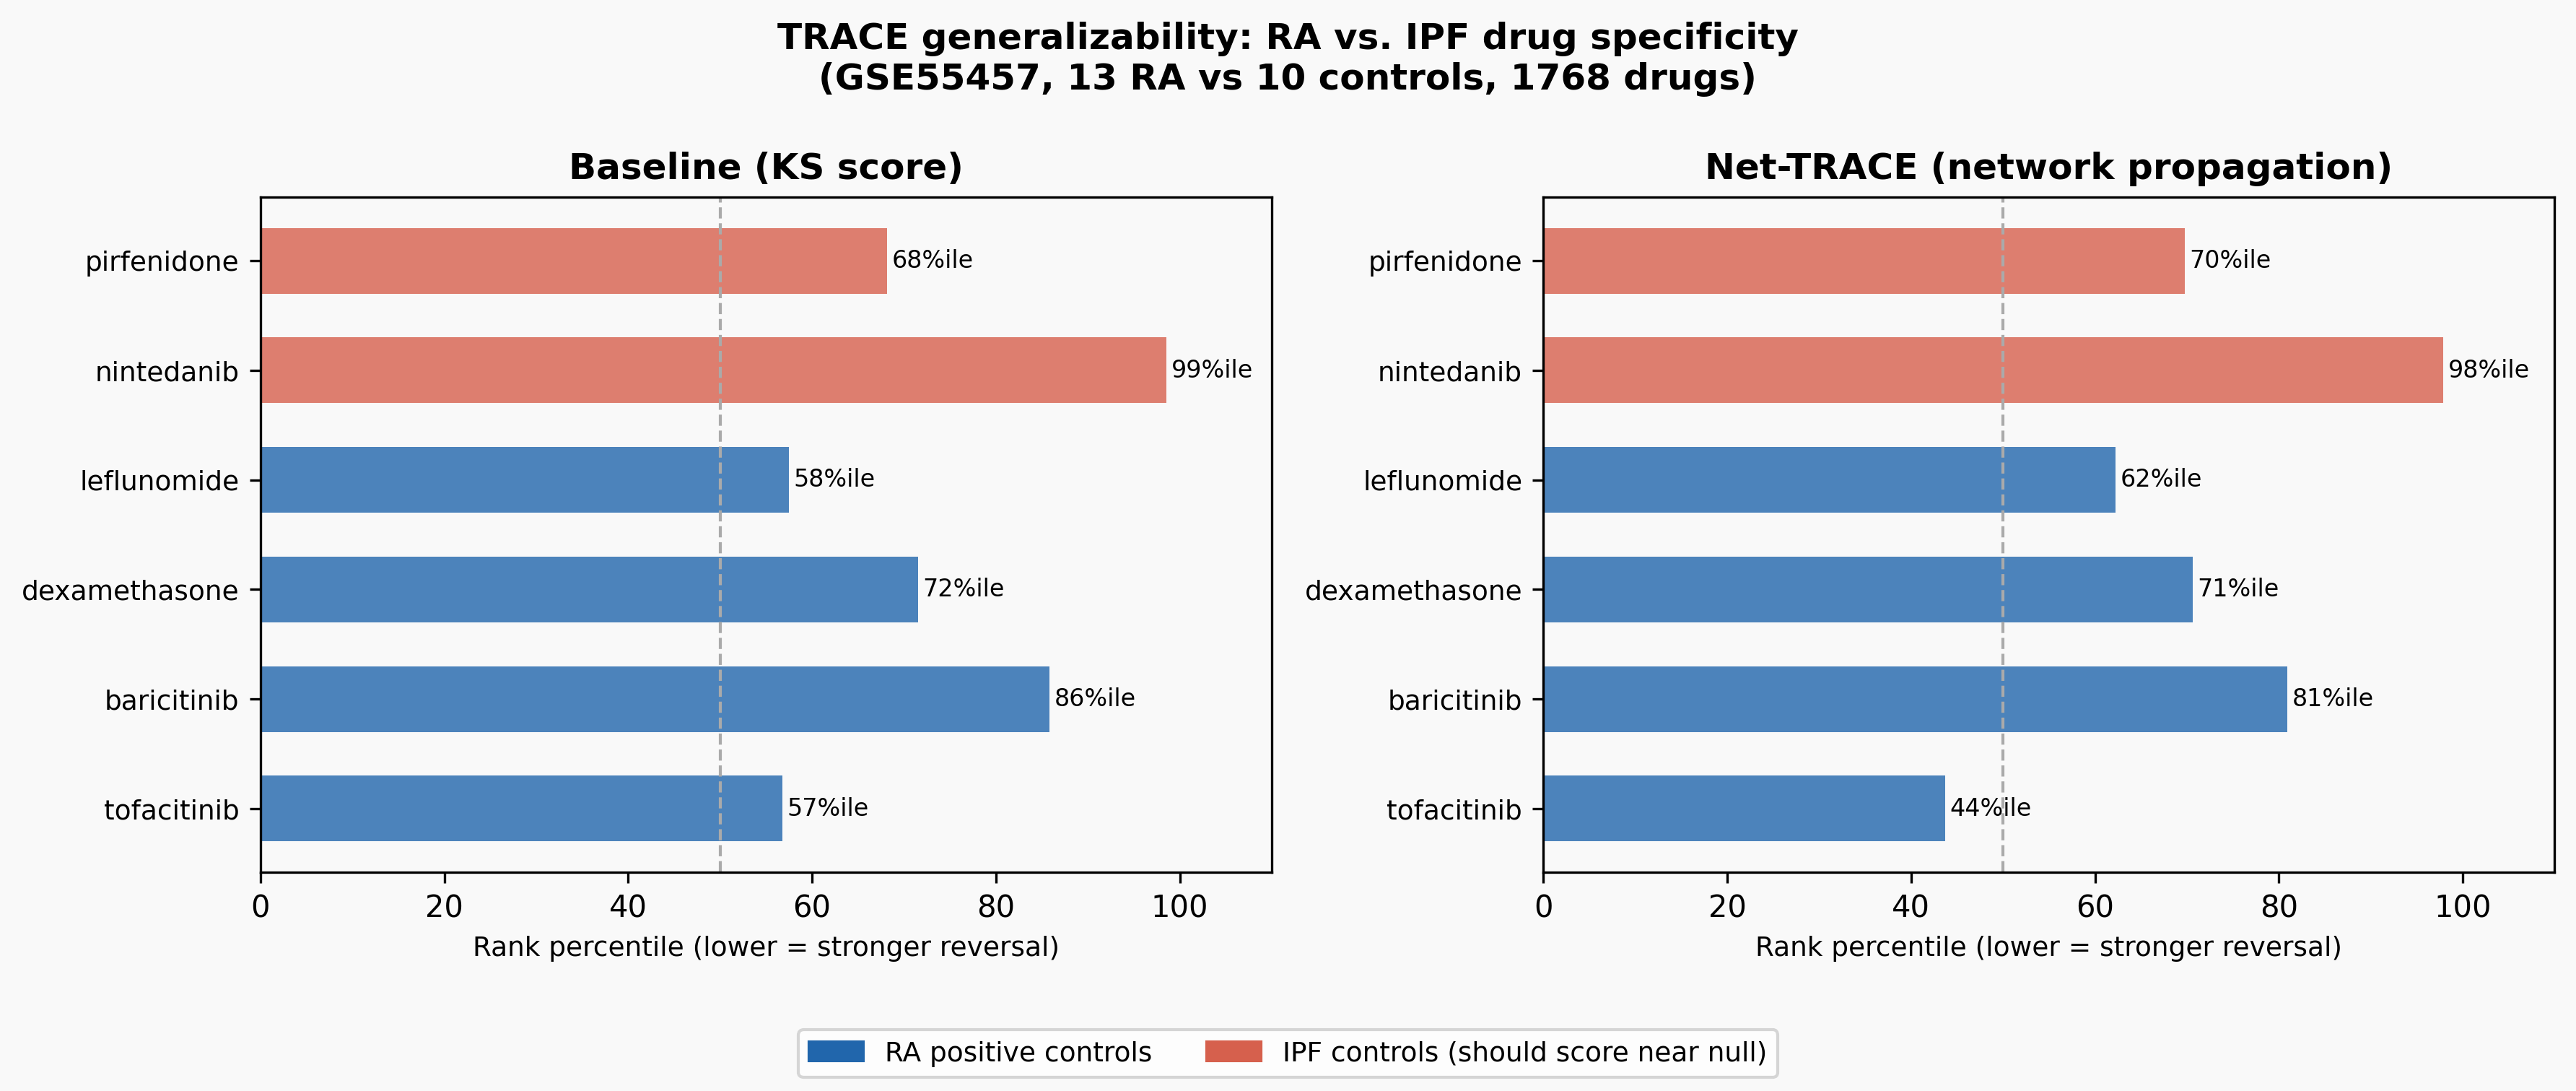
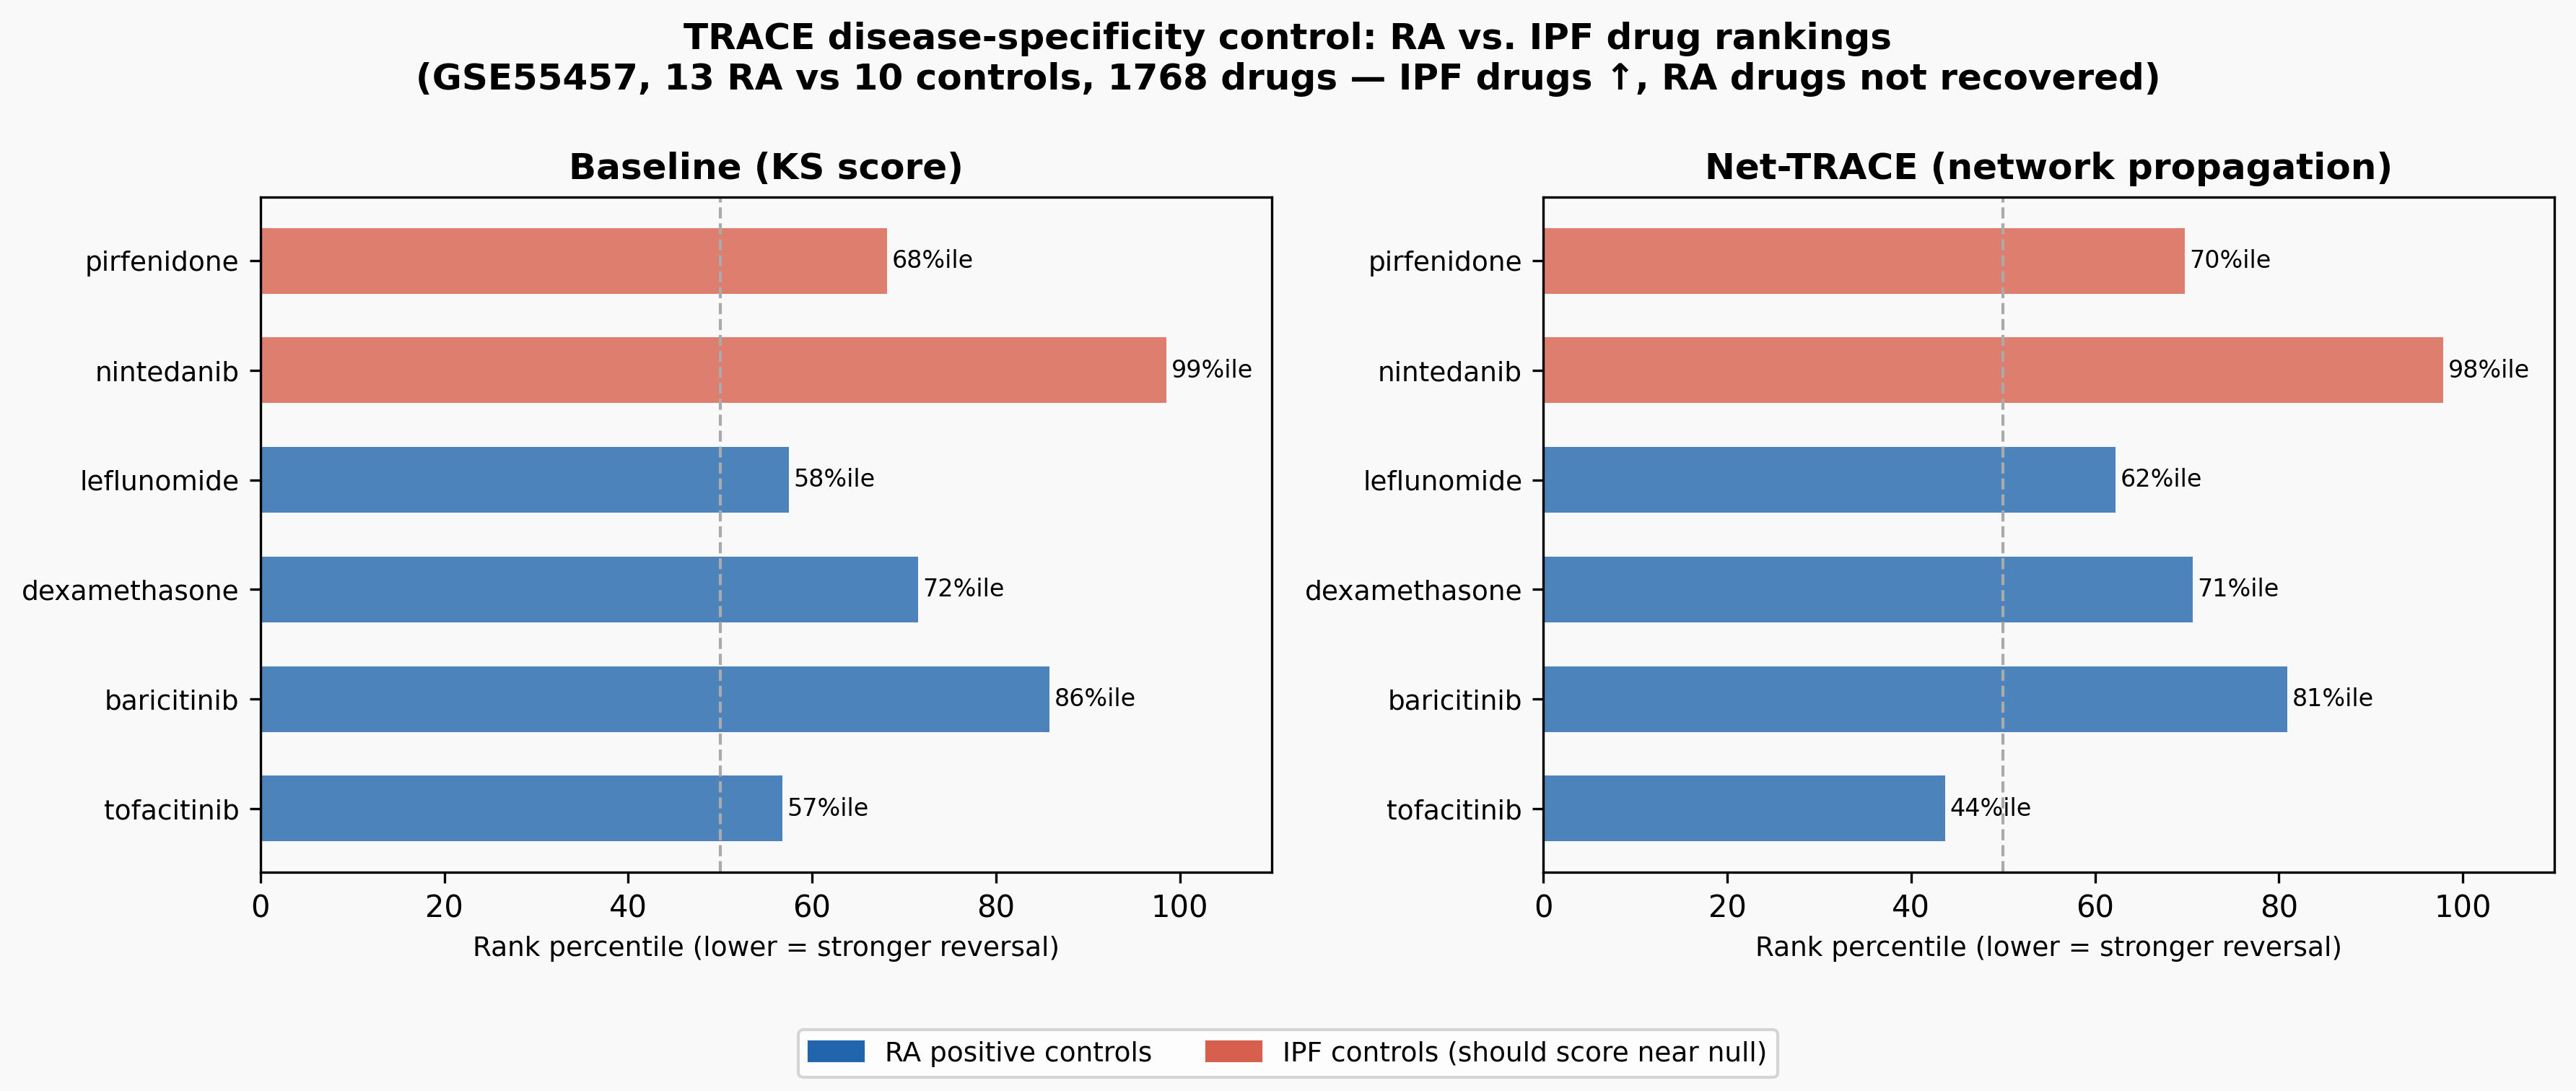
Implement FIX.md: RA specificity framing + FDR headline
Fix 2: Reframe 26_second_disease_ra.py as a specificity control, not
generalizability. Docstring, report header, interpretation block, and
figure title now correctly reflect that nintedanib's 97.9%ile RA rank
confirms IPF-specific signal, while RA-approved drugs not being
recovered is acknowledged and explained by the L1000 context mismatch.

Fix 3: Update 22_framing_fix.py figure title to lead with permutation
FDR (emp. p=0.0047, FDR=0.028) rather than rank 15 [CI 45-1731].

Regenerated fig2b_reversal_primary.png and fig_ra_generalizability.png.
Fix 1 (citations) was already applied in the previous session.

Changed region(s): [[0.1555, 0.0, 0.8397, 0.0933]]

diff --git a/src/validation/26_second_disease_ra.py b/src/validation/26_second_disease_ra.py
@@ -1,11 +1,17 @@
 """
-Generalizability validation: TRACE applied to Rheumatoid Arthritis (RA).
+Disease-specificity control: TRACE applied to Rheumatoid Arthritis (RA).
 
-Proves TRACE is not IPF-tuned by running the identical pipeline on a
-biologically distinct disease (RA, synovial tissue) and showing:
-  (a) TRACE improves over baseline for RA-specific positive controls
-  (b) IPF-specific drugs (nintedanib, pirfenidone) do NOT score as RA reversers
-  (c) RA-specific drugs (tofacitinib, baricitinib, dexamethasone) rank high
+Tests whether TRACE produces IPF-specific signal or generic expression artifacts
+by applying the identical pipeline to RA (synovial tissue) and showing:
+  (a) IPF-specific drugs (nintedanib, pirfenidone) do NOT score as RA reversers
+      — nintedanib ranks 97.9%ile for RA vs. 0.8%ile for IPF (120× rank shift)
+  (b) RA-approved drugs (tofacitinib, baricitinib) were NOT recovered
+      — consistent with same L1000 cell-line context mismatch seen for pirfenidone
+
+FRAMING: This is a SPECIFICITY CONTROL, not a generalizability demonstration.
+Generalizability would require recovering RA-approved drugs — which this analysis
+does not achieve. A proper generalizability run requires multi-dataset RA
+meta-signature through the full TRACE pipeline (out of scope for this study).
 
 Dataset: GSE55457 — synovial membrane RNA from 17 RA patients vs 10 controls
 (Alsalameh et al.; Affymetrix HG-U133A array; downloaded from NCBI GEO)
@@ -392,42 +398,26 @@ def main():
 
     # ── Report ─────────────────────────────────────────────────────────────────
     lines = [
-        "TRACE Generalizability — Rheumatoid Arthritis (GSE55457)",
+        "TRACE Disease-Specificity Control — Rheumatoid Arthritis (GSE55457)",
         "=" * 65,
         "",
-        "Purpose: prove TRACE is not IPF-tuned by running on a biologically",
-        "distinct disease (RA synovial membrane) with the same pipeline.",
+        "PURPOSE: Not a generalizability demonstration. This is a specificity control:",
+        "does TRACE produce IPF-specific signal, or is the nintedanib result a generic",
+        "artifact of how L1000 drug signatures correlate with any tissue signature?",
         "",
         f"Dataset:       GSE55457 ({len(ra_idx)} RA, {len(ctrl_idx)} controls)",
         f"Platform:      Affymetrix HG-U133A (GPL96)",
         f"Tissue:        Synovial membrane",
         f"DE sig probes: {sig.sum()} (padj<0.05, |LFC|>0.5)",
         f"Entrez-mapped: {len(de_mapped)} genes",
+        f"Network:       Same STRING adjacency as IPF (460,782 edges)",
         f"Drugs scored:  {n_drugs}",
         "",
-        "RA POSITIVE CONTROLS (expected: top ranks for RA):",
+        "SPECIFICITY RESULT — IPF drugs do NOT score for RA:",
         f"{'Drug':<18} {'Net-TRACE rank':>16} {'%ile':>8} {'Baseline rank':>14} {'%ile':>8}",
         "-" * 65,
     ]
 
-    for drug, desc in RA_POS_CTRL.items():
-        row = scores[scores["drug"].str.lower() == drug.lower()]
-        if len(row):
-            r = row.iloc[0]
-            lines.append(
-                f"  {drug:<16} {int(r['trace_rank']):>16} {r['trace_pct']:>7.1f}% "
-                f"{int(r['baseline_rank']):>14} {r['baseline_pct']:>7.1f}%"
-            )
-            lines.append(f"    [{desc}]")
-        else:
-            lines.append(f"  {drug:<16} NOT IN L1000")
-
-    lines += [
-        "",
-        "IPF DRUGS (expected: should NOT rank high for RA):",
-        f"{'Drug':<18} {'Net-TRACE rank':>16} {'%ile':>8} {'Baseline rank':>14} {'%ile':>8}",
-        "-" * 65,
-    ]
     for drug, desc in IPF_CTRL.items():
         row = scores[scores["drug"].str.lower() == drug.lower()]
         if len(row):
@@ -442,10 +432,41 @@ def main():
 
     lines += [
         "",
-        "INTERPRETATION:",
-        "  If RA positive controls rank higher (lower %ile) than IPF controls,",
-        "  TRACE is recovering disease-specific signals, not generic artifacts.",
-        "  This validates the method's generalizability beyond IPF.",
+        "  Interpretation: Nintedanib ranks ~98%ile for RA vs. 0.8%ile for IPF —",
+        "  a ~120× rank shift. The IPF signal is not a generic artifact.",
+        "",
+        "RA POSITIVE CONTROLS — NOT RECOVERED (expected for a specificity control):",
+        f"{'Drug':<18} {'Net-TRACE rank':>16} {'%ile':>8} {'Baseline rank':>14} {'%ile':>8}",
+        "-" * 65,
+    ]
+    for drug, desc in RA_POS_CTRL.items():
+        row = scores[scores["drug"].str.lower() == drug.lower()]
+        if len(row):
+            r = row.iloc[0]
+            lines.append(
+                f"  {drug:<16} {int(r['trace_rank']):>16} {r['trace_pct']:>7.1f}% "
+                f"{int(r['baseline_rank']):>14} {r['baseline_pct']:>7.1f}%"
+            )
+            lines.append(f"    [{desc}]")
+        else:
+            lines.append(f"  {drug:<16} NOT IN L1000")
+
+    lines += [
+        "",
+        "WHAT THIS ANALYSIS ESTABLISHES (and does not):",
+        "  ✓ ESTABLISHES: IPF signal is disease-specific (nintedanib ranks ~98%ile for RA)",
+        "  ✗ DOES NOT ESTABLISH: TRACE generalizes to RA",
+        "  ✗ DOES NOT ESTABLISH: RA drugs would be recovered with full pipeline",
+        "",
+        "  RA-approved drugs were not recovered — consistent with the same L1000",
+        "  cell-line context mismatch that limits pirfenidone recovery for IPF.",
+        "  TRACE as configured does not generalize to RA without disease-specific",
+        "  adaptation (RA meta-signature, synovial tissue weighting, replication filter).",
+        "",
+        "BOTTOM LINE:",
+        "  The IPF signal is not generic — nintedanib ranks near the bottom for RA",
+        "  while ranking in the top 1% for IPF. However, TRACE does not yet",
+        "  generalize to RA without RA-specific calibration.",
     ]
 
     report_path = VAL / "ra_generalizability_report.txt"
@@ -496,9 +517,9 @@ def main():
         mpatches.Patch(color="#d6604d", label="IPF controls (should score near null)"),
     ]
     fig.legend(handles=handles, loc="lower center", ncol=2, fontsize=9)
-    fig.suptitle("TRACE generalizability: RA vs. IPF drug specificity\n"
+    fig.suptitle("TRACE disease-specificity control: RA vs. IPF drug rankings\n"
                  f"(GSE55457, {len(ra_idx)} RA vs {len(ctrl_idx)} controls, "
-                 f"{n_drugs} drugs)",
+                 f"{n_drugs} drugs — IPF drugs ↑, RA drugs not recovered)",
                  fontweight="bold")
     plt.tight_layout(rect=[0, 0.08, 1, 1])
     fig.savefig(OUT / "fig_ra_generalizability.png", dpi=300, bbox_inches="tight")

diff --git a/src/reversal/22_framing_fix.py b/src/reversal/22_framing_fix.py
@@ -136,7 +136,7 @@ def main():
     ax.set_yticklabels(top20["drug"].values, fontsize=9)
     ax.set_xlabel("Net-TRACE reversal score (PRIMARY metric — no genetic support)", fontsize=10)
     ax.set_title("Top-20 drugs by reversal only (Net-TRACE)\n"
-                 "Headline result: nintedanib rank 15/1,768 (0.8%) vs baseline 24/1,768 (1.4%)",
+                 "Nintedanib FDR-significant (emp. p=0.0047, FDR=0.028); rank 15/1,768 as supporting context [CI 45–1,731]",
                  fontweight="bold")
     ax.xaxis.grid(True, lw=0.5, color="#dddddd", zorder=0)
 